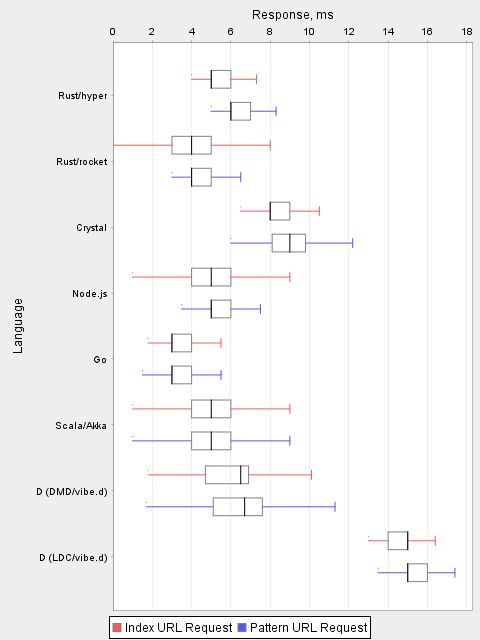
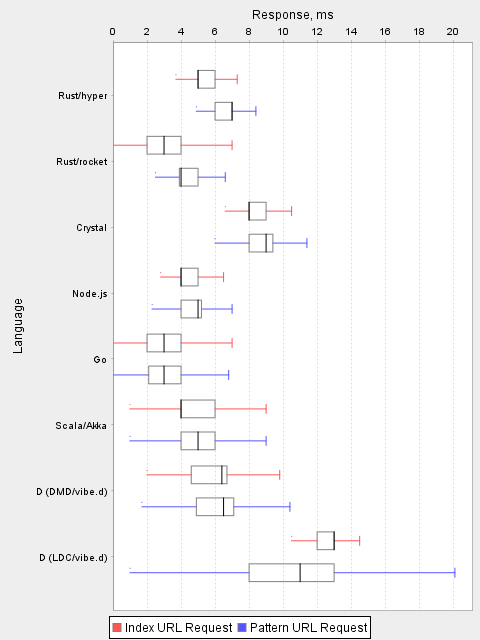
Scala results have been updated for Win/WSL.

diff --git a/README.md b/README.md
@@ -32,7 +32,7 @@ OS: 4.4.0-43-Microsoft GNU/Linux
 
 Hardware: Dell XPS (CPU: 2.6 GHz Intel Core i7, Mem: 16 GB 2133 MHz DDR4)
 
-Software: Go 1.9, Rust 1.22.0-nightly, Scala 2.11.6, Node.js 8.6.0, DMD 2.076.0,
+Software: Go 1.9, Rust 1.22.0-nightly, Scala 2.12.3, Node.js 8.6.0, DMD 2.076.0,
 LDC 1.4.0, Crystal 0.23.1.
 
 ![](results/wsl.png?raw=true)
